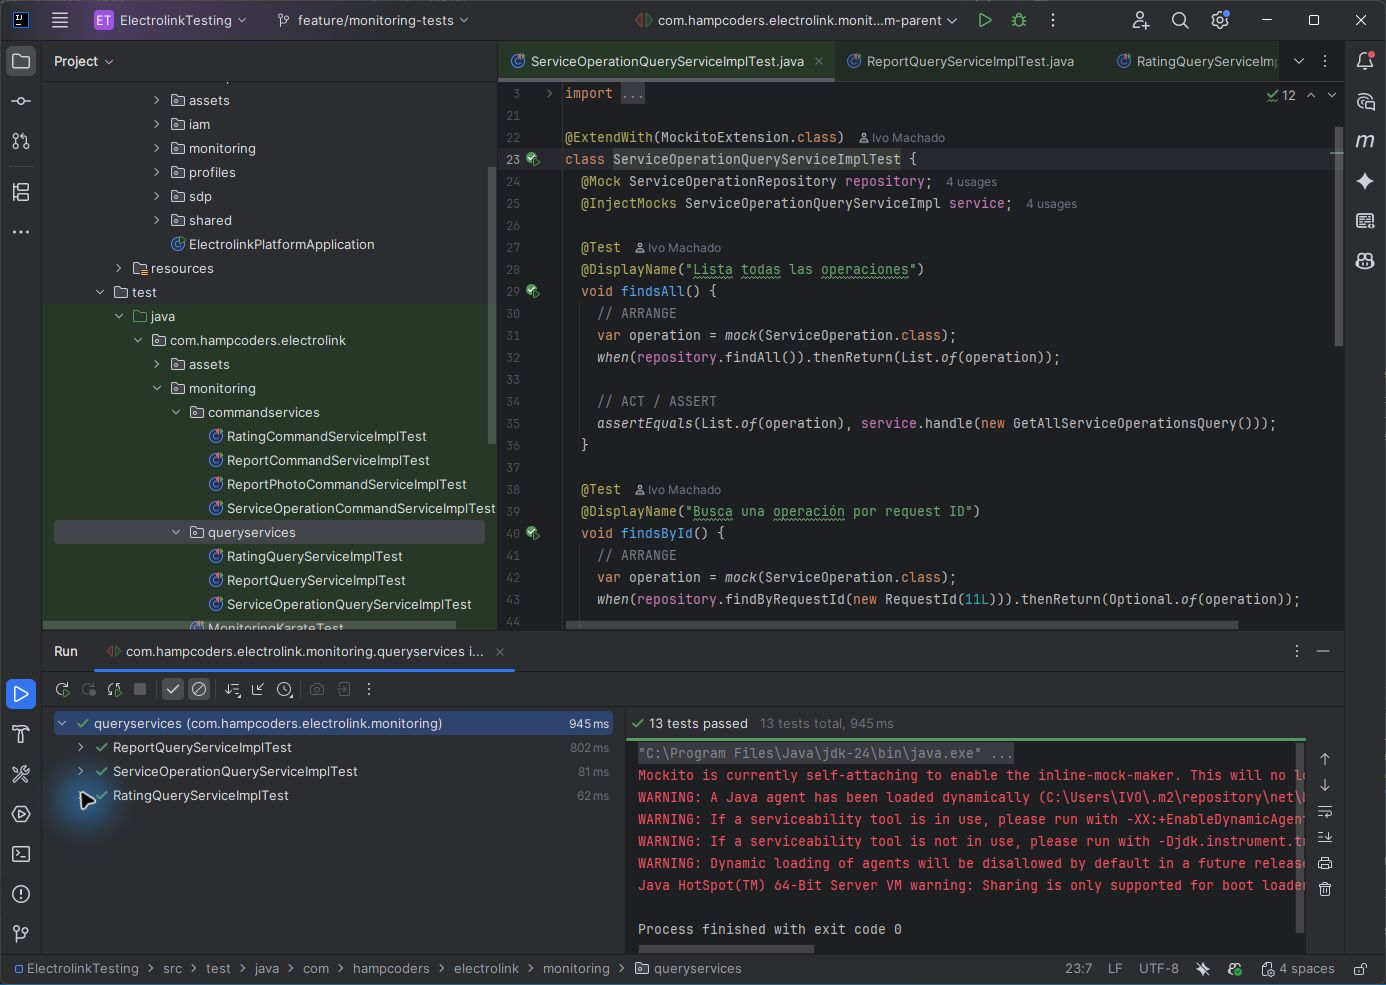
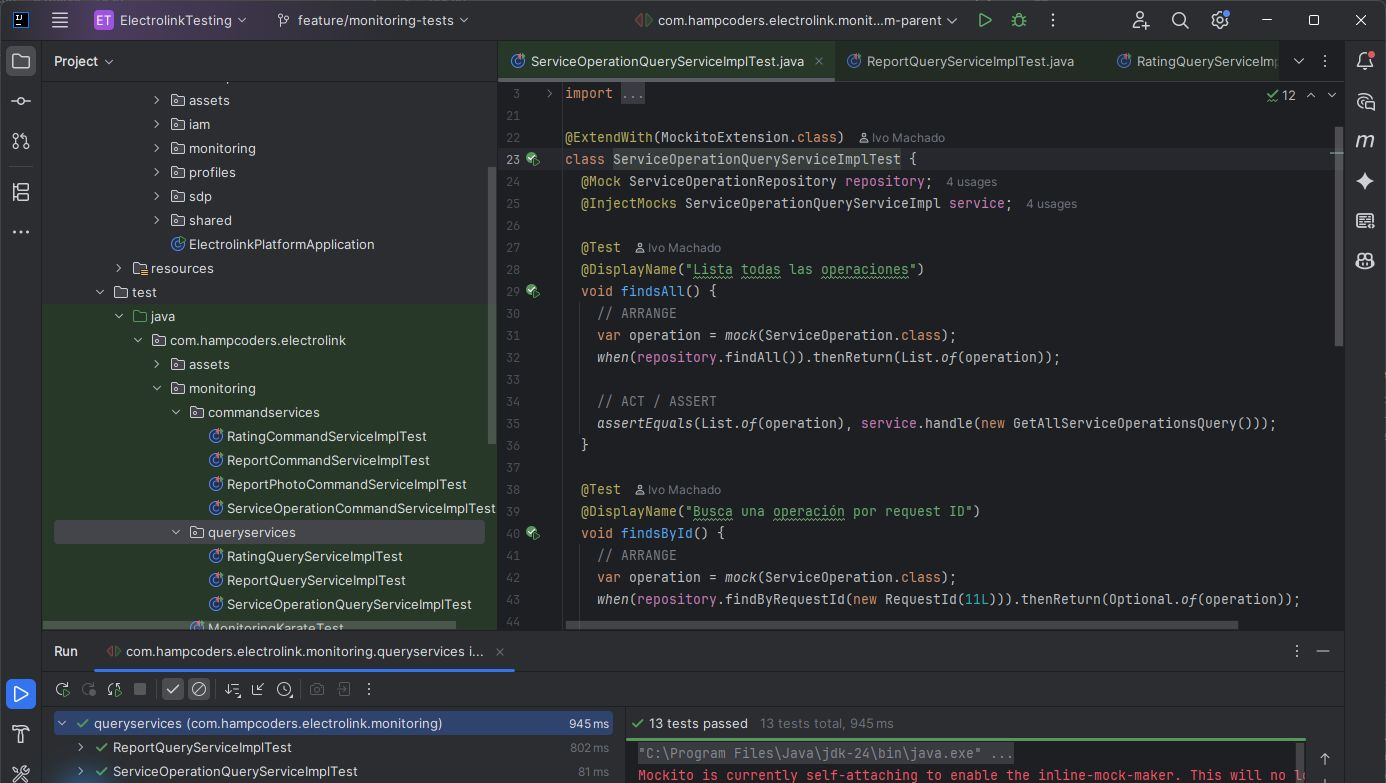
docs: update Monitoring test screenshots from IntelliJ IDEA

diff --git a/README.md b/README.md
@@ -6220,43 +6220,43 @@ Las pruebas unitarias de Monitoring cubren los cuatro Command Services y los tre
 
 **Evidencia de ejecución (IntelliJ IDEA)**
 
-Las siguientes capturas muestran ejecuciones reales en IntelliJ: **19 pruebas Command** y **13 pruebas Query**, todas aprobadas. Los resultados originales por clase también están en los archivos Surefire enlazados arriba.
+Las capturas originales de IntelliJ IDEA se recortaron para excluir el cursor. El panel Run muestra **19 pruebas Command** y **13 pruebas Query**, todas aprobadas. Los recortes conservan los totales; el desglose completo por clase está en los reportes de Maven Surefire enlazados arriba.
 
 Resumen de los cuatro Command Services (19 pruebas):
 
-<img src="assets/img/cap6/monitoring/MonitoringCommandServicesSummary.png" alt="IntelliJ: 19 pruebas Command de Monitoring aprobadas"/>
+<img src="assets/img/cap6/monitoring/MonitoringCommandServicesSummary.png" alt="IntelliJ IDEA: 19 pruebas Command de Monitoring aprobadas"/>
 
 `ServiceOperationCommandServiceImplTest` — 5 pruebas:
 
-<img src="assets/img/cap6/monitoring/ServiceOperationCommandServiceImplTest.png" alt="IntelliJ: cinco pruebas de ServiceOperationCommandServiceImplTest aprobadas"/>
+<img src="assets/img/cap6/monitoring/ServiceOperationCommandServiceImplTest.png" alt="IntelliJ IDEA: cinco pruebas de ServiceOperationCommandServiceImplTest aprobadas"/>
 
 `RatingCommandServiceImplTest` — 7 pruebas:
 
-<img src="assets/img/cap6/monitoring/RatingCommandServiceImplTest.png" alt="IntelliJ: siete pruebas de RatingCommandServiceImplTest aprobadas"/>
+<img src="assets/img/cap6/monitoring/RatingCommandServiceImplTest.png" alt="IntelliJ IDEA: siete pruebas de RatingCommandServiceImplTest aprobadas"/>
 
 `ReportCommandServiceImplTest` — 5 pruebas:
 
-<img src="assets/img/cap6/monitoring/ReportCommandServiceImplTest.png" alt="IntelliJ: cinco pruebas de ReportCommandServiceImplTest aprobadas"/>
+<img src="assets/img/cap6/monitoring/ReportCommandServiceImplTest.png" alt="IntelliJ IDEA: cinco pruebas de ReportCommandServiceImplTest aprobadas"/>
 
 `ReportPhotoCommandServiceImplTest` — 2 pruebas:
 
-<img src="assets/img/cap6/monitoring/ReportPhotoCommandServiceImplTest.png" alt="IntelliJ: dos pruebas de ReportPhotoCommandServiceImplTest aprobadas"/>
+<img src="assets/img/cap6/monitoring/ReportPhotoCommandServiceImplTest.png" alt="IntelliJ IDEA: dos pruebas de ReportPhotoCommandServiceImplTest aprobadas"/>
 
 Resumen de los tres Query Services (13 pruebas):
 
-<img src="assets/img/cap6/monitoring/MonitoringQueryServicesSummary.png" alt="IntelliJ: 13 pruebas Query de Monitoring aprobadas"/>
+<img src="assets/img/cap6/monitoring/MonitoringQueryServicesSummary.png" alt="IntelliJ IDEA: 13 pruebas Query de Monitoring aprobadas"/>
 
 `ServiceOperationQueryServiceImplTest` — 4 pruebas:
 
-<img src="assets/img/cap6/monitoring/ServiceOperationQueryServiceImplTest.png" alt="IntelliJ: cuatro pruebas de ServiceOperationQueryServiceImplTest aprobadas"/>
+<img src="assets/img/cap6/monitoring/ServiceOperationQueryServiceImplTest.png" alt="IntelliJ IDEA: cuatro pruebas de ServiceOperationQueryServiceImplTest aprobadas"/>
 
 `ReportQueryServiceImplTest` — 4 pruebas:
 
-<img src="assets/img/cap6/monitoring/ReportQueryServiceImplTest.png" alt="IntelliJ: cuatro pruebas de ReportQueryServiceImplTest aprobadas"/>
+<img src="assets/img/cap6/monitoring/ReportQueryServiceImplTest.png" alt="IntelliJ IDEA: cuatro pruebas de ReportQueryServiceImplTest aprobadas"/>
 
 `RatingQueryServiceImplTest` — 5 pruebas:
 
-<img src="assets/img/cap6/monitoring/RatingQueryServiceImplTest.png" alt="IntelliJ: cinco pruebas de RatingQueryServiceImplTest aprobadas"/>
+<img src="assets/img/cap6/monitoring/RatingQueryServiceImplTest.png" alt="IntelliJ IDEA: cinco pruebas de RatingQueryServiceImplTest aprobadas"/>
 
 **Límite de esta evidencia:** los repositorios simulados permiten comprobar las decisiones de los servicios, pero no prueban la persistencia JPA, los controladores ni las respuestas HTTP. La ejecución de `mvn test` sobre toda la suite devolvió 1 error en la prueba preexistente `ElectrolinkPlatformApplicationTests` porque no estaba definido `DB_URL`; ese error no corresponde a las 32 unitarias de Monitoring.
 
